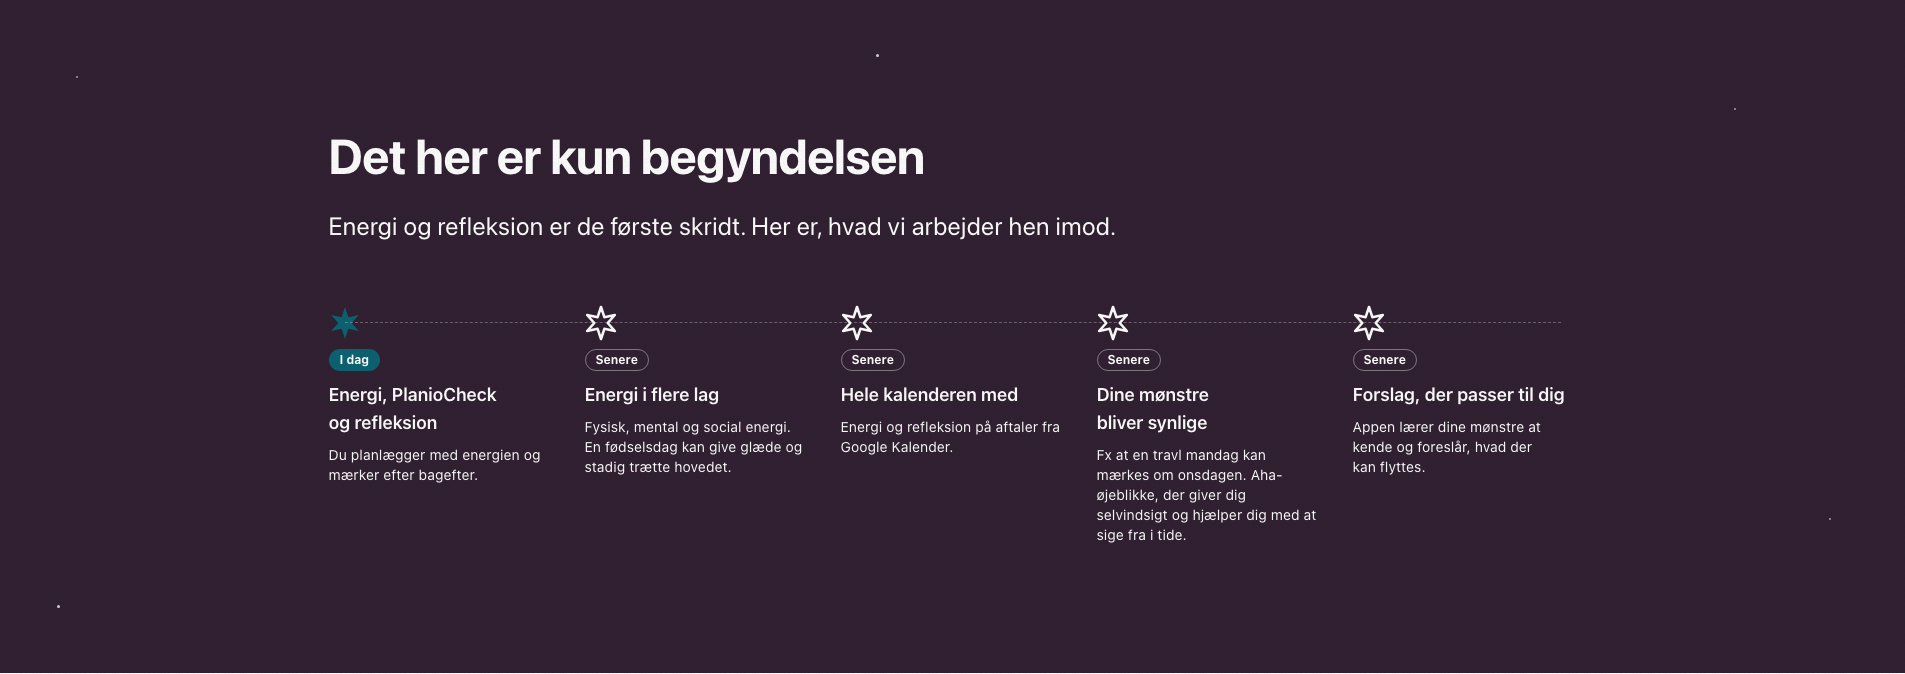
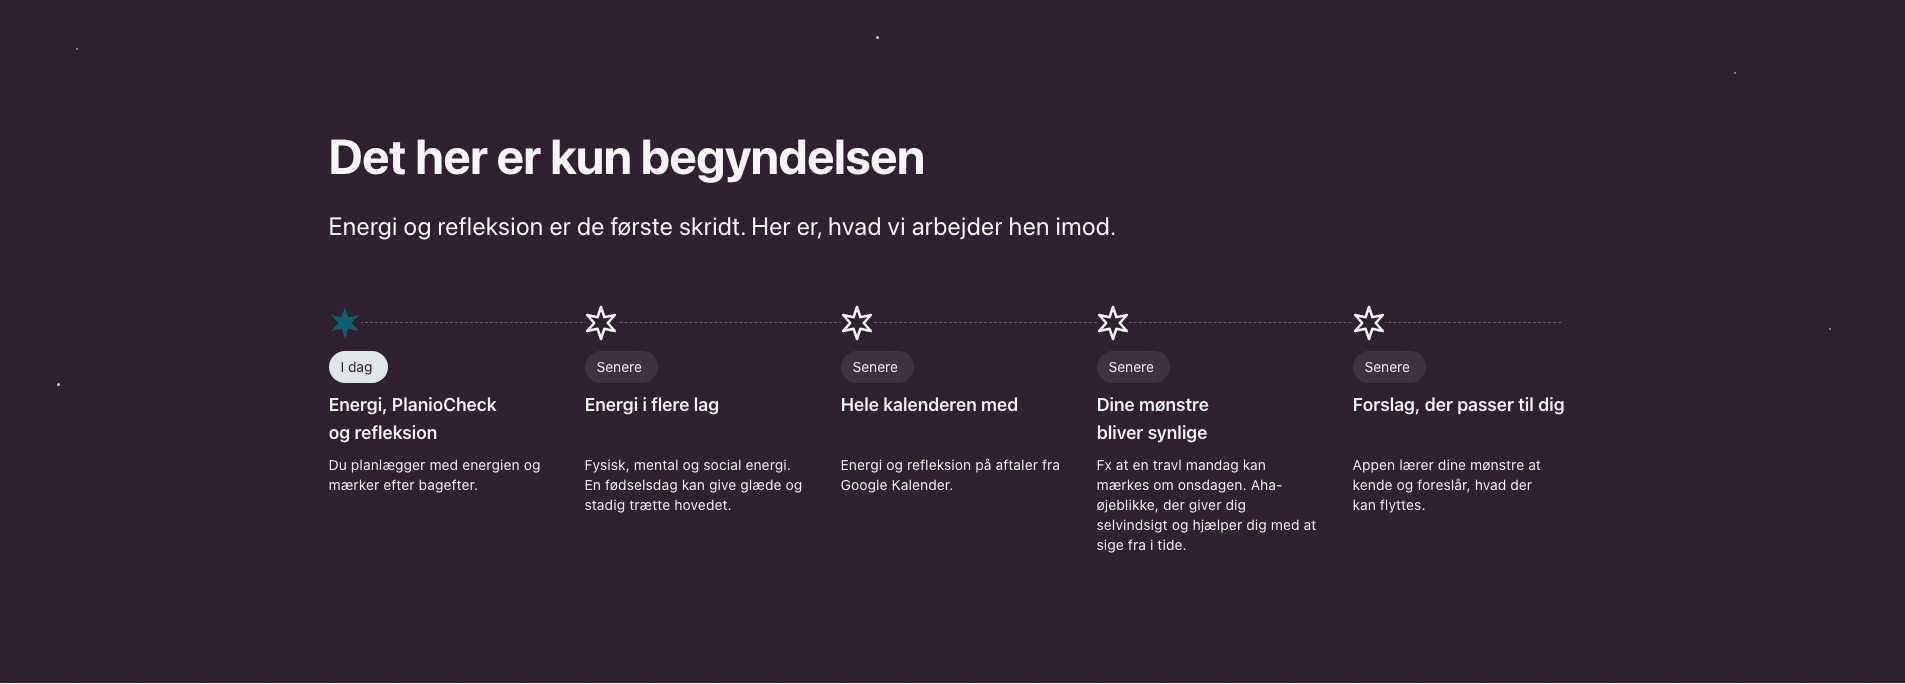
planio_roadmap: steps are EviCard subgrids, so tag, title and text line up
Titles of different length pushed the texts to different heights across the columns. Each step is now an EviCard (as li) over four shared rows, and the layout composes EviTag, EviTitle and EviRichText directly with <div /> placeholders, like PricesDefaultLayout, instead of the Title/Body/Tag wrappers. EviCard gets an as prop for list items. Checked: rows align to 0px at 1024 and 1440 in Chromium and WebKit; check-responsive passes for planio_roadmap, features and prices.

diff --git a/src/components/planio/PlanioRoadmap.tsx b/src/components/planio/PlanioRoadmap.tsx
@@ -1,22 +1,13 @@
-import {
-  type LinkResolverFunction,
-  type RichTextField,
-  isFilled,
-} from "@prismicio/client";
-
-import { EviStack } from "@/src/components/layout/EviStack";
-import { EviRichText } from "@/src/components/typography/EviRichText";
-import { EviTitle } from "@/src/components/typography/EviTitle";
+import { EviCard } from "@/src/components/ui/EviCard";
 import { PlanioStar } from "@/src/components/planio/PlanioStar";
-import { has_rich_text } from "@/src/lib/prismic/fields";
-import { evi_card_body_class } from "@/src/lib/utils/card-text";
 import { cn } from "@/src/lib/utils/cn";
 
 /**
- * My Planios køreplan: trin på en stiplet linje. Smal: lodret, stjernen til
- * venstre for hvert trin. Fra lg: ét trin pr. kolonne, stjernen øverst og linjen
- * vandret. Rå grid frem for EviAutoGrid/EviStack: kolonnetallet følger antallet
- * af trin (grid-flow-col), og linjen skifter retning sammen med layoutet.
+ * My Planios køreplan: trin på en stiplet linje. Smal: trinene under hinanden med
+ * stjernen til venstre. Fra lg: ét trin pr. kolonne over fire fælles rækker
+ * (stjerne, mærkat, titel, tekst), så trinene som EviCard-subgrids flugter på
+ * tværs af kolonnerne. Rå grid frem for EviAutoGrid: én kolonne pr. trin
+ * (grid-flow-col over fire faste rækker), og linjen skifter retning med layoutet.
  */
 function Root({
   className,
@@ -26,7 +17,7 @@ function Root({
     <ol
       data-slot="planio-roadmap"
       className={cn(
-        "relative col-span-12 grid gap-8 lg:auto-cols-fr lg:grid-flow-col",
+        "relative col-span-12 grid gap-8 lg:auto-cols-fr lg:grid-flow-col lg:grid-rows-[repeat(4,auto)]",
         // Linjen går gennem stjernernes midte (stjernen er 2rem).
         "before:absolute before:inset-y-4 before:left-[calc(1rem-0.75px)] before:border-l-[1.5px] before:border-dashed before:border-current/30",
         "lg:before:inset-x-4 lg:before:top-[calc(1rem-0.75px)] lg:before:bottom-auto lg:before:border-t-[1.5px] lg:before:border-l-0",
@@ -37,19 +28,21 @@ function Root({
   );
 }
 
-/** Ét trin: stjernen ved siden af (smal) eller over (lg) mærkat og tekst. */
-function Step({
-  className,
-  ...props
-}: React.ComponentProps<"li">): React.ReactElement {
+/**
+ * Ét trin: et EviCard over fire rækker, fyldt i rækkefølgen stjerne, mærkat,
+ * titel, tekst (tomme felter som `<div />`). Smal: stjernen i en egen kolonne ved
+ * siden af de tre andre, så kortet kun spænder over tre rækker; en tom fjerde
+ * række gav 16px ekstra luft mellem trinene.
+ */
+function Step({ children }: { children: React.ReactNode }): React.ReactElement {
   return (
-    <li
-      className={cn(
-        "grid grid-cols-[2rem_minmax(0,1fr)] content-start items-start gap-x-4 gap-y-2 lg:grid-cols-1 lg:gap-y-2.5",
-        className,
-      )}
-      {...props}
-    />
+    <EviCard
+      as="li"
+      rows={4}
+      className="grid-cols-[2rem_minmax(0,1fr)] gap-x-4 max-lg:row-span-3 lg:grid-cols-1"
+    >
+      {children}
+    </EviCard>
   );
 }
 
@@ -59,7 +52,7 @@ function Step({
  */
 function Marker({ current = false }: { current?: boolean }): React.ReactElement {
   return (
-    <span aria-hidden className="row-span-2 size-8 bg-(--theme-bg) lg:row-span-1">
+    <span aria-hidden className="row-span-3 size-8 self-start bg-(--theme-bg) lg:row-span-1">
       <PlanioStar
         variant={current ? "filled" : "outline"}
         className={cn("size-8", current && "text-evi-primary")}
@@ -68,52 +61,4 @@ function Marker({ current = false }: { current?: boolean }): React.ReactElement 
   );
 }
 
-/** Mærkaten, fx "I dag" (fyldt) eller "Senere" (kant). Ens størrelse begge veje. */
-function Tag({
-  field,
-  linkResolver,
-  current = false,
-}: {
-  field: RichTextField;
-  linkResolver: LinkResolverFunction;
-  current?: boolean;
-}): React.ReactElement | null {
-  if (!isFilled.richText(field)) return null;
-  return (
-    <span
-      className={cn(
-        "justify-self-start rounded-full border px-2.5 py-0.5 text-xs font-bold",
-        current
-          ? "border-transparent bg-evi-primary text-evi-text-on-primary"
-          : "border-current/40",
-      )}
-    >
-      <EviRichText.Inline field={field} linkResolver={linkResolver} />
-    </span>
-  );
-}
-
-/** Trinnets titel (heading3) og tekst. */
-function Text({
-  title,
-  body,
-  linkResolver,
-}: {
-  title: RichTextField;
-  body: RichTextField;
-  linkResolver: LinkResolverFunction;
-}): React.ReactElement | null {
-  if (!has_rich_text(title, body)) return null;
-  return (
-    <EviStack gap="sm">
-      <EviTitle field={title} linkResolver={linkResolver} size="lg" />
-      <EviRichText
-        field={body}
-        linkResolver={linkResolver}
-        className={evi_card_body_class()}
-      />
-    </EviStack>
-  );
-}
-
-export const PlanioRoadmap = Object.assign(Root, { Step, Marker, Tag, Text });
+export const PlanioRoadmap = Object.assign(Root, { Step, Marker });

diff --git a/src/components/planio/parts/PlanioRoadmapLayout.tsx b/src/components/planio/parts/PlanioRoadmapLayout.tsx
@@ -1,6 +1,9 @@
-import { type Content } from "@prismicio/client";
+import { isFilled, type Content } from "@prismicio/client";
 
 import { EviSection } from "@/src/components/layout/EviSection";
+import { EviRichText } from "@/src/components/typography/EviRichText";
+import { EviTitle } from "@/src/components/typography/EviTitle";
+import { EviTag } from "@/src/components/ui/EviTag";
 import { PlanioHeader } from "@/src/components/planio/PlanioHeader";
 import { PlanioRoadmap } from "@/src/components/planio/PlanioRoadmap";
 import { PlanioSky, type PlanioSkyStar } from "@/src/components/planio/PlanioSky";
@@ -9,6 +12,8 @@ import {
   resolve_slice_context,
   type EviPageSliceContext,
 } from "@/src/lib/prismic/slices";
+import { evi_card_body_class } from "@/src/lib/utils/card-text";
+import { cn } from "@/src/lib/utils/cn";
 
 // Designets fem stjerner. De øverste står med faste afstande i sektionens top-luft:
 // i procent rykkede de ned i overskriften, når sektionen blev høj på mobil. De to
@@ -65,16 +70,37 @@ export function PlanioRoadmapLayout({
           {steps.map((step, i) => (
             <PlanioRoadmap.Step key={i}>
               <PlanioRoadmap.Marker current={step.current} />
-              <PlanioRoadmap.Tag
-                field={step.tag}
-                linkResolver={linkResolver}
-                current={step.current}
-              />
-              <PlanioRoadmap.Text
-                title={step.title}
-                body={step.body}
-                linkResolver={linkResolver}
-              />
+              {isFilled.richText(step.tag) ? (
+                <EviTag
+                  text={step.tag}
+                  // Udeladt flade = EviTags lyse primær-flade, så det, appen kan i dag,
+                  // står frem mod de neutrale "Senere".
+                  surface={step.current ? undefined : "Neutral"}
+                  linkResolver={linkResolver}
+                  className="self-start lg:mt-3"
+                />
+              ) : (
+                <div />
+              )}
+              {isFilled.richText(step.title) ? (
+                <EviTitle
+                  field={step.title}
+                  linkResolver={linkResolver}
+                  size="lg"
+                  className="mt-2"
+                />
+              ) : (
+                <div />
+              )}
+              {isFilled.richText(step.body) ? (
+                <EviRichText
+                  field={step.body}
+                  linkResolver={linkResolver}
+                  className={cn("mt-2", evi_card_body_class())}
+                />
+              ) : (
+                <div />
+              )}
             </PlanioRoadmap.Step>
           ))}
         </PlanioRoadmap>

diff --git a/src/components/ui/EviCard.tsx b/src/components/ui/EviCard.tsx
@@ -4,6 +4,8 @@ import { cn } from "@/src/lib/utils/cn";
 export type EviCardRows = 2 | 3 | 4 | 5 | 6 | 7;
 
 export type EviCardProps = React.ComponentProps<"div"> & {
+  /** Kortets element. "li" når kortene står i en `<ul>`/`<ol>`. @default "div" */
+  as?: "div" | "li";
   /** Antal subgrid-rækker. Skal matche antallet af direkte børn — tomme slots wrappes i `<div />`. */
   rows: EviCardRows;
 };
@@ -20,11 +22,13 @@ export const EVI_ROW_SPAN: Record<EviCardRows, string> = {
 };
 
 export function EviCard({
+  as = "div",
   rows,
   className,
   children,
   ...props
 }: EviCardProps): React.ReactElement {
+  const Card = as as React.ElementType;
   if (process.env.NODE_ENV === "development") {
     const count = Children.count(children);
     if (count !== rows) {
@@ -36,7 +40,7 @@ export function EviCard({
   }
 
   return (
-    <div
+    <Card
       data-slot="evi-card"
       data-rows={rows}
       className={cn(
@@ -47,6 +51,6 @@ export function EviCard({
       {...props}
     >
       {children}
-    </div>
+    </Card>
   );
 }
